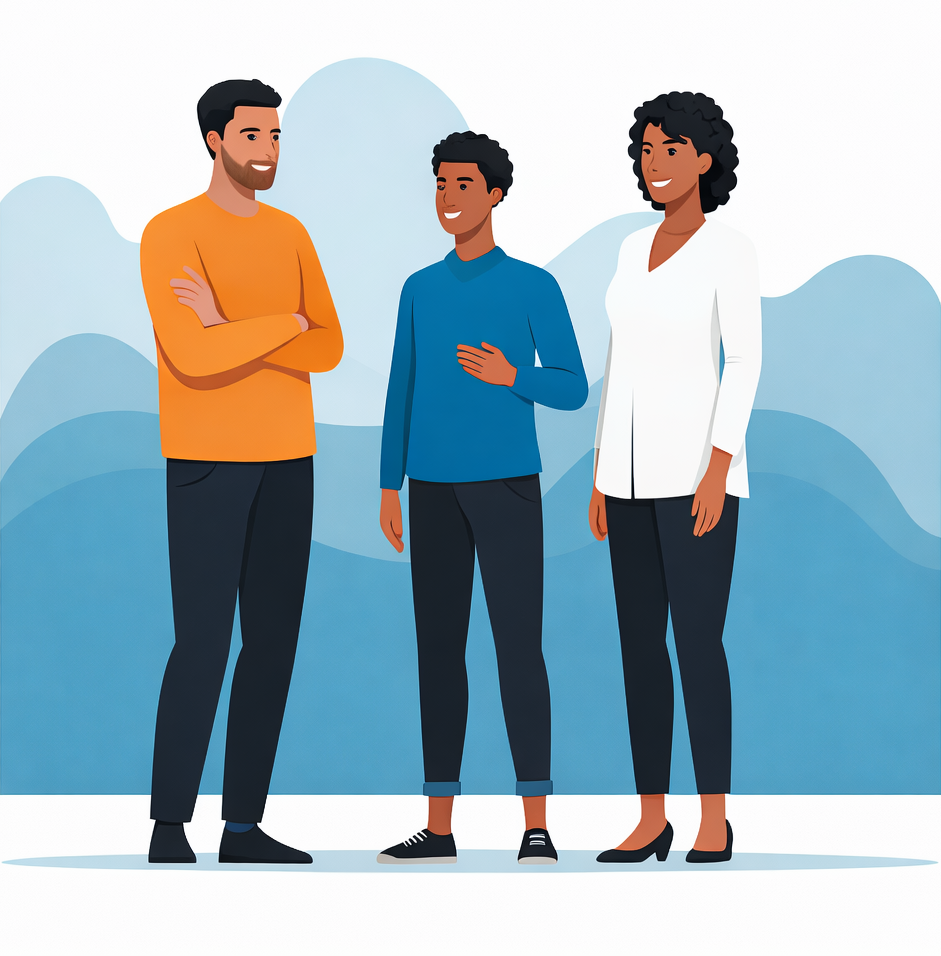
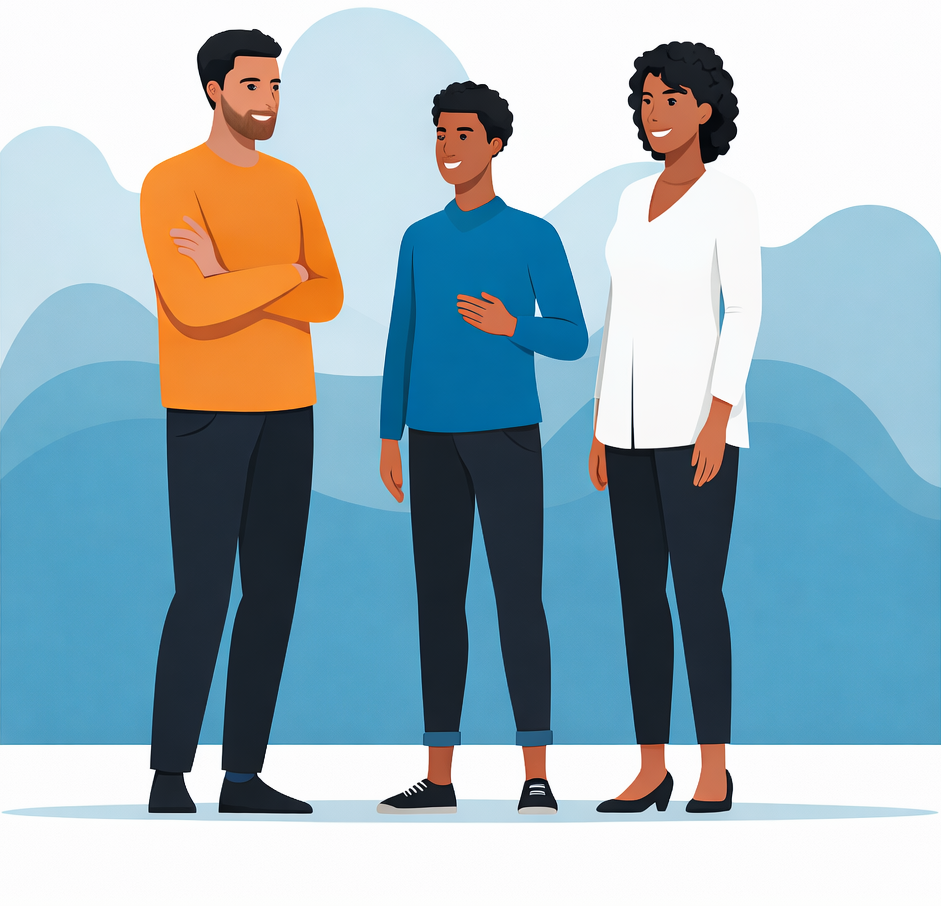
feat: add language selector, default to Spanish, fix hero image
Add ES/EN dropdown to nav bar. Default language to Spanish. Fix hero
image cropping by using object-top and add emerald background fallback
to prevent white gaps. Use local people_collaborating.png instead of
external URL.

diff --git a/src/components/organisims/Nav.tsx b/src/components/organisims/Nav.tsx
@@ -1,7 +1,25 @@
+import { useState, useRef, useEffect } from 'react';
 import { useTranslation } from 'react-i18next';
 
+const LANGUAGES = [
+  { code: 'es', label: 'ES' },
+  { code: 'en', label: 'EN' },
+];
+
 export default function Nav() {
-  const { t } = useTranslation();
+  const { t, i18n } = useTranslation();
+  const [open, setOpen] = useState(false);
+  const ref = useRef<HTMLDivElement>(null);
+
+  useEffect(() => {
+    const handler = (e: MouseEvent) => {
+      if (ref.current && !ref.current.contains(e.target as Node)) setOpen(false);
+    };
+    document.addEventListener('mousedown', handler);
+    return () => document.removeEventListener('mousedown', handler);
+  }, []);
+
+  const current = LANGUAGES.find(l => l.code === i18n.language) ?? LANGUAGES[0];
 
   return (
     <nav className="fixed top-0 w-full z-50 glass-nav shadow-sm">
@@ -33,9 +51,46 @@ export default function Nav() {
           </a>
         </div>
 
-        <button className="bg-primary hover:bg-primary-container text-white px-6 py-2.5 rounded-md font-headline font-bold text-sm transition-all active:scale-95 shadow-lg shadow-primary/10">
-          {t('nav.becomeMember')}
-        </button>
+        <div className="flex items-center gap-3">
+          {/* Language selector */}
+          <div ref={ref} className="relative">
+            <button
+              onClick={() => setOpen(!open)}
+              className="flex items-center gap-1 px-3 py-2 text-sm font-headline font-semibold text-slate-600 hover:text-emerald-800 transition-colors"
+            >
+              <span className="material-symbols-outlined text-base">language</span>
+              {current.label}
+              <span className="material-symbols-outlined text-base">
+                {open ? 'expand_less' : 'expand_more'}
+              </span>
+            </button>
+
+            {open && (
+              <div className="absolute right-0 mt-1 bg-white rounded-lg shadow-lg border border-outline-variant/30 overflow-hidden min-w-[100px]">
+                {LANGUAGES.map(lang => (
+                  <button
+                    key={lang.code}
+                    onClick={() => {
+                      i18n.changeLanguage(lang.code);
+                      setOpen(false);
+                    }}
+                    className={`w-full px-4 py-2.5 text-sm font-headline font-semibold text-left transition-colors ${
+                      lang.code === i18n.language
+                        ? 'text-primary bg-primary-fixed/30'
+                        : 'text-slate-600 hover:bg-surface-container-low hover:text-emerald-800'
+                    }`}
+                  >
+                    {lang.label}
+                  </button>
+                ))}
+              </div>
+            )}
+          </div>
+
+          <button className="bg-primary hover:bg-primary-container text-white px-6 py-2.5 rounded-md font-headline font-bold text-sm transition-all active:scale-95 shadow-lg shadow-primary/10">
+            {t('nav.becomeMember')}
+          </button>
+        </div>
       </div>
     </nav>
   );

diff --git a/src/localization/index.ts b/src/localization/index.ts
@@ -14,7 +14,7 @@ const languageDetector: LanguageDetectorModule = {
   type: 'languageDetector',
 
   detect: () => {
-    let selected = 'en';
+    let selected = 'es';
     try {
       const stored = localStorage.getItem(LANG_KEY);
       if (stored) {
@@ -24,7 +24,7 @@ const languageDetector: LanguageDetectorModule = {
         const match = locales.find(l =>
           Object.keys(resources).includes(l.split('-')[0]),
         );
-        selected = match?.split('-')[0] ?? 'en';
+        selected = match?.split('-')[0] ?? 'es';
       }
     } catch {
       /* noop */
@@ -51,7 +51,7 @@ void i18n
   .init(
     {
       resources,
-      fallbackLng: 'en',
+      fallbackLng: 'es',
       react: { useSuspense: false },
     },
     () => {

diff --git a/src/components/organisims/Hero.tsx b/src/components/organisims/Hero.tsx
@@ -16,9 +16,6 @@ export default function Hero() {
 
       <div className="relative z-10 max-w-7xl mx-auto px-6 w-full">
         <div className="max-w-2xl asymmetric-gap">
-          <span className="inline-block px-4 py-1.5 bg-primary-fixed text-on-primary-fixed text-xs font-bold tracking-widest uppercase mb-6 rounded-full">
-            {t('hero.badge')}
-          </span>
 
           <h1 className="text-5xl md:text-7xl font-headline font-extrabold text-white mb-8 leading-[1.1] tracking-tighter">
             {t('hero.title1')} <br />
